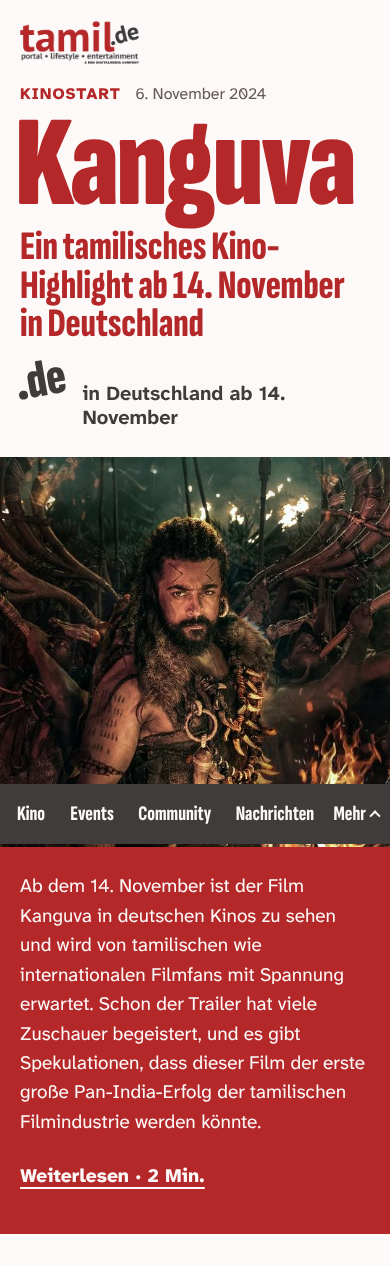
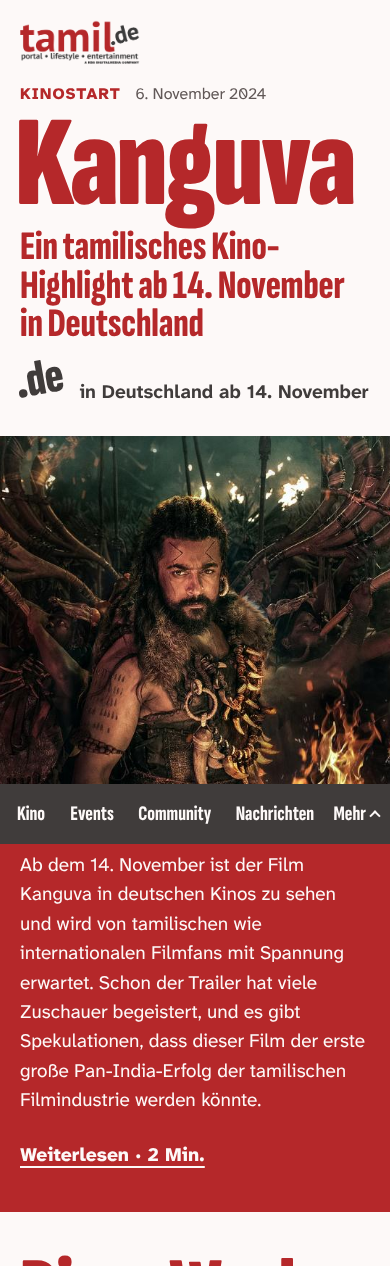
feat(design): Richtungsskizze feed, Runde 2 nach Kritik
Feste Leiste ab 900 px nicht mehr über Inhalt, Länderzeichen mit ausgeschriebenem
Land, sichtbares Ende des Covers am Handy, ruhigerer Artikelkopf.

Claude-Session: https://claude.ai/code/session_01VBg2WFSs9tPNRidQXUcJan

Changed region(s): [[0.0, 0.3081, 1.0, 0.6161], [0.0, 0.6777, 1.0, 1.0], [0.0615, 0.2773, 0.1846, 0.3081]]

diff --git a/design/richtungen/feed/index.html b/design/richtungen/feed/index.html
@@ -22,7 +22,7 @@
         <h2 class="cover-titel">
           <span class="kopfwort">Kanguva</span><span class="vh"> – </span>Ein tamilisches Kino-Highlight ab 14.&nbsp;November in Deutschland
         </h2>
-        <p class="zeichen"><span class="tld" aria-hidden="true">.de</span><span>in Deutschland ab 14. November</span></p>
+        <p class="zeichen"><span class="tld" aria-hidden="true">.de</span><span>in Deutschland ab 14.&nbsp;November</span></p>
       </div>
       <div class="cover-bild auf-rot">
         <img src="../../../prototyp/static/img/p9711.jpg" width="1024" height="538"

diff --git a/design/richtungen/feed/feed.css b/design/richtungen/feed/feed.css
@@ -177,7 +177,7 @@ a { color: inherit; }
   hyphens: manual;
 }
 
-.cover-text .zeichen { font-size: 1.25rem; color: var(--grau); }
+.cover-text .zeichen { font-size: 1.1875rem; color: var(--grau); }
 .cover-text .zeichen .tld { font-size: 2.6em; }
 
 .cover-bild {

diff --git a/design/richtungen/feed/begruendung.md b/design/richtungen/feed/begruendung.md
@@ -74,8 +74,8 @@ von einer aufrechten, nüchternen Zeile: **wo und wann es hier ankommt.**
 
 Es ist kein Etikett und keine Pille: kein Kasten, keine Rundung, keine Farbe außer Grau (auf Papier) oder Papier
 (auf Rot). Die Länderkennung selbst ist Zeichen, nicht Information; das Land steht immer ausgeschrieben im Text
-daneben, damit niemand „.ch“ deuten muss. Oben im Kopf stehen einmal `.de .at .ch` neben dem Logo: so lernt man
-das System beim ersten Blick.
+daneben, damit niemand „.ch“ deuten muss. Erklärt wird das System einmal als Legende im Kopf von „Diese Woche“
+(Runde 2; vorher stand `.de .at .ch` oben neben dem Logo).
 
 Dazu die **zwei Hälften**: am Desktop links Papier mit roter Schrift (das „tamil“), rechts Rot mit Bild (die
 Fläche); die Naht bei 50 % läuft von Cover in „Diese Woche“ weiter (Titel links, Ort und Tag rechts). Am Handy
@@ -116,3 +116,30 @@ liegen die Hälften übereinander: erst Papier mit Überschrift, dann Bild und R
   Daumenreichweite; „Mehr“ öffnet alle neun Rubriken nach oben, ohne JavaScript (`<details>`).
 - Im Artikel trägt die Leiste rechts **„Teilen“** als WhatsApp-Link (`wa.me`, kein Skript); unter dem Vorspann
   steht derselbe Link noch einmal.
+
+## Runde 2 (Überarbeitung nach `design/kritik/feed-r1.md`)
+
+Geändert wurde nur, was die Kritik nennt; Idee, Schriften und Farben bleiben.
+
+- **P1 Leiste am Desktop (Startseite):** Ab 900 px ist die Leiste nicht mehr fest. Sie schließt die linke Hälfte
+  des ersten Bildschirms unten ab (`position: absolute` im Block `.erster`) und scrollt mit; über „Diese Woche“
+  liegt nichts mehr. Am Desktop gibt es keinen Daumen, die Rubriken stehen dort, wo der erste Blick endet.
+- **P1 Leiste am Desktop (Artikel):** Ab 900 px wird die Leiste zur Wortliste in der linken Meta-Spalte unter
+  Rubrik und Datum (Start, Nachrichten, Mehr, Teilen), mitlaufend (`sticky`) in ihrer eigenen Spalte. Sie liegt
+  weder auf dem Foto noch auf der Textspalte; „Mehr“ klappt darin nach unten auf, ohne den Text zu verschieben.
+  Am Handy bleibt sie in beiden Seiten fest unten in Daumenreichweite.
+- **Länderzeichen lesbar:** Das Land steht jetzt überall ausgeschrieben neben dem Zeichen (Cover: „in Deutschland
+  ab 14. November“; Artikel: „Einreise aus Deutschland visumfrei ab 1. Oktober 2024“). `.de .at .ch` oben rechts
+  ist entfernt (sah wie ein Umschalter aus). Erklärt wird das System dort, wo es unterscheidet: im Kopf von
+  „Diese Woche“ als Legende „.de Deutschland · .at Österreich · .ch Schweiz“.
+- **Ende des Covers:** Der Kopf von „Diese Woche“ steht auf Papier (rote Überschrift, graue Legende), erst die
+  Termine stehen auf Rot. So endet das Cover am Handy sichtbar, und Papier/Rot wechseln sich als Gegensatz ab.
+- **Tonlage Nachrichten:** Artikelüberschrift in Grau und Strichstärke 620 statt Rot 800; Rot nur noch für Rubrik
+  und Länderzeichen. Die volle Lautstärke bleibt Startseite, Kino und Kultur.
+- **„Mehr“:** Raster mit gleicher Zeilenhöhe statt Spalten; auf der Startseite ohne die vier Rubriken, die schon in
+  der Leiste stehen.
+- **Kopfwort:** Regel festgeschrieben: nur bei einem ersten Wort mit höchstens 8 Zeichen, sonst ganzer Titel in der
+  zweiten Größe; als Sicherung `overflow-wrap: anywhere`.
+- **Fokus auf dem Cover:** Ring je Teilfläche: Grau auf Papier, Papier mit grauer Innenkante auf Bild und Rot.
+- **P3 Artikelbild:** bündig mit der Textspalte (736 px breit, kleiner als die 900 Bildpixel). **P3 Cover Desktop:**
+  Textblock sitzt unten an der Leiste statt mittig.
